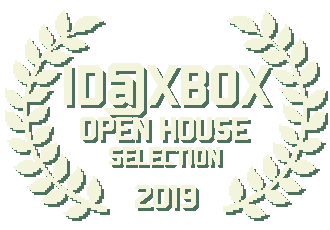
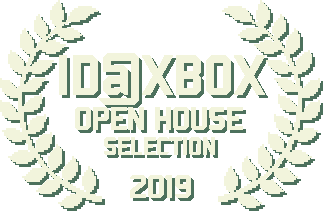
Add gameplay trailer and loft award.

diff --git a/games/sparklite.html b/games/sparklite.html
@@ -69,8 +69,9 @@ icon: "/assets/sparklite/favicon.png"
     <h2 id="sparklite-subtitle" class="white-header text-center animated fadeInDown">Gear Up for Adventure on November 14th!</h2>
     <div class="laurels">
       <img src="/assets/sparklite/awards/idatxbox.png" alt=""/>
-      <img src="/assets/sparklite/awards/imb.png" alt=""/>
+      <img src="/assets/sparklite/awards/idatxbox2.png" alt=""/>
       <img src="/assets/sparklite/awards/themix.png" alt=""/>
+      <img src="/assets/sparklite/awards/imb.png" alt=""/>
     </div>
   </div>
 
@@ -102,6 +103,9 @@ icon: "/assets/sparklite/favicon.png"
           gadgets, guns, and gear. Explore dangerous corners of the world, take down
           titans of the mining industry, and save Geodia!
         </p>
+      </span>
+      <span class="gameplay-trailer">
+        <iframe width="560" height="315" src="https://www.youtube.com/embed/4iEYuUwNebM" frameborder="0" allow="accelerometer; autoplay; encrypted-media; gyroscope; picture-in-picture" allowfullscreen></iframe>
       </span>
     </div>
     <div class="clouds cloud-bottom">
@@ -242,7 +246,7 @@ icon: "/assets/sparklite/favicon.png"
     </div>
 
   <div class="bottom-text">
-    <h2 class="coming-soon">Coming Fall 2019 to Mac, PC, and Consoles</h2>
+    <h2 class="coming-soon">Coming November 14, 2019 to Mac, PC, and Consoles</h2>
   </div>
 
   <!-- Future blocks go here

diff --git a/_custom/sparklite.less b/_custom/sparklite.less
@@ -221,6 +221,7 @@ p {
 
 // Laurels
 // --------------------------------------------------
+
 .laurels {
   margin-top: 7vh;
   img {
@@ -323,6 +324,16 @@ p {
 
   @media (max-width: @screen-sm){
     display: none;
+  }
+}
+
+// Screenshots and Video
+
+.gameplay-trailer {
+  iframe {
+    margin-top: -2.5vh;
+    margin-bottom: 5vh;
+    .rounded-border();
   }
 }
 
@@ -467,13 +478,13 @@ p {
   }
 
   #screenshot-2 {
-    margin-top: 20vh;
+    margin-top: 40vh;
     background-image: url('/assets/sparklite/cave-animated-wide.gif');
     background-color: #0C131E;
   }
 
   #screenshot-3 {
-    margin-top: 40vh;
+    margin-top: 45vh;
     background-image: url('/assets/sparklite/forest-animated.gif');
     background-color: #d6951d;
   }
@@ -530,8 +541,7 @@ p {
   margin: 1vw 2vw 2vw 2vw;
   width: 80%;
   max-width: 800px;
-  border-radius: 6px;
-  border: 2px solid @color-dark-brown;
+  .rounded-border();
 }
 
 // Mixins
@@ -547,4 +557,9 @@ p {
     0 1px 3px rgba(0,0,0,.4),
     0 3px 5px rgba(0,0,0,.3),
     0 5px 10px rgba(0,0,0,.5),
+}
+
+.rounded-border() {
+    border: 2px solid @color-dirt-background;
+    border-radius: 8px;
 }

diff --git a/css/sparklite.css b/css/sparklite.css
@@ -6601,6 +6601,12 @@ p {
     display: none;
   }
 }
+.gameplay-trailer iframe {
+  margin-top: -2.5vh;
+  margin-bottom: 5vh;
+  border: 2px solid #0c131e;
+  border-radius: 8px;
+}
 .newsletter-form {
   z-index: 10;
   text-align: center;
@@ -6729,12 +6735,12 @@ p {
   background-color: #95bc58;
 }
 .screenshot-container #screenshot-2 {
-  margin-top: 20vh;
+  margin-top: 40vh;
   background-image: url('/assets/sparklite/cave-animated-wide.gif');
   background-color: #0C131E;
 }
 .screenshot-container #screenshot-3 {
-  margin-top: 40vh;
+  margin-top: 45vh;
   background-image: url('/assets/sparklite/forest-animated.gif');
   background-color: #d6951d;
 }
@@ -6780,6 +6786,6 @@ p {
   margin: 1vw 2vw 2vw 2vw;
   width: 80%;
   max-width: 800px;
-  border-radius: 6px;
-  border: 2px solid #1B1B21;
+  border: 2px solid #0c131e;
+  border-radius: 8px;
 }
